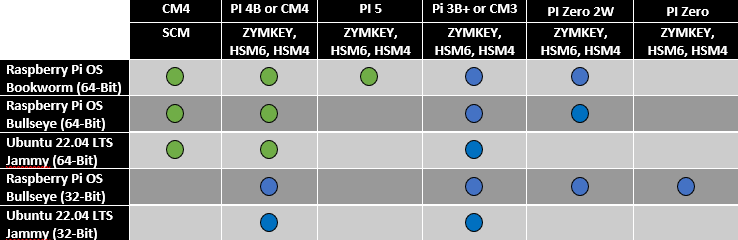
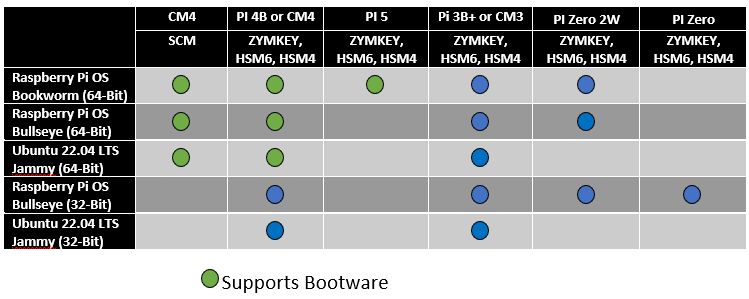
Fixed missing key from supported OS table; mv'd callouts for wake pin to troubleshooting section

diff --git a/content/getting-started/hsm4/quickstart/index.md b/content/getting-started/hsm4/quickstart/index.md
@@ -14,25 +14,6 @@ toc: true
 
 The HSM4 is a ‘snap in’ security module designed for easy integration within a secure manufacturing environment. All connections are through a single, 30 pin connector that is hidden underneath the module. It is designed specifically to work with Raspberry Pi embedded applications. A PiZero HAT (Hardware Attached on Top) adapter is available for easy integration to the standard GPIO pins of the Pi.
 
-{{< callout notice >}}
-Raspberry PI OS Bookworm updated the kernel to version 6.6.y in March 2024. The kernel no longer overrides an upstream kernel decision to force the base number of the main GPIO controller to be global GPIO 0. If the WAKE_PIN number is not set, the ZYMKEY will not bind. You will see 5 flashes per second continuously.For RPI4, RPI5, and CM4 platforms, you will need to set the WAKE_PIN in the following manner:
-
-Determine the numbering for GPIO4 by examining /sys/kernel/debug/gpio for the number associated with GPIO4, then set an environment variable in the Zymbit environment variable file:
-
-```bash
-sudo su
-wake_pin=`grep GPIO4 /sys/kernel/debug/gpio | sed -r 's/[^0-9]*([0-9]*).*/\1/'`
-echo "wake_pin=$wake_pin"   # sanity check value is set
-echo "ZK_GPIO_WAKE_PIN=$wake_pin" > /var/lib/zymbit/zkenv.conf
-systemctl restart zkifc
-```
-As of 6.6.20, the numbering is:
-RPI4=516
-RPI5=575
-CM4=516
-
-{{< /callout >}}
-
 In this Getting Started guide we describe how to install your HSM to a Raspberry Pi running Raspbian or Ubuntu. The installation process is the same for both of these Linux distributions.
 
 

diff --git a/content/getting-started/hsm6/quickstart/index.md b/content/getting-started/hsm6/quickstart/index.md
@@ -14,25 +14,6 @@ toc: true
 
 The HSM6 is a ‘snap in’ security module designed for easy integration within a secure manufacturing environment. All connections are through a single, 30 pin connector that is hidden underneath the module. It is designed specifically to work with Raspberry Pi embedded applications. A PiZero HAT (Hardware Attached on Top) adapter is available for easy integration to the standard GPIO pins of the Pi.
 
-{{< callout notice >}}
-Raspberry PI OS Bookworm updated the kernel to version 6.6.y in March 2024. The kernel no longer overrides an upstream kernel decision to force the base number of the main GPIO controller to be global GPIO 0. If the WAKE_PIN number is not set, the ZYMKEY will not bind. You will see 5 flashes per second continuously.For RPI4, RPI5, and CM4 platforms, you will need to set the WAKE_PIN in the following manner:
-
-Determine the numbering for GPIO4 by examining /sys/kernel/debug/gpio for the number associated with GPIO4, then set an environment variable in the Zymbit environment variable file:
-
-```bash
-sudo su
-wake_pin=`grep GPIO4 /sys/kernel/debug/gpio | sed -r 's/[^0-9]*([0-9]*).*/\1/'`
-echo "wake_pin=$wake_pin"   # sanity check value is set
-echo "ZK_GPIO_WAKE_PIN=$wake_pin" > /var/lib/zymbit/zkenv.conf
-systemctl restart zkifc
-```
-As of 6.6.20, the numbering is:
-RPI4=516
-RPI5=575
-CM4=516
-
-{{< /callout >}}
-
 In this Getting Started guide we describe how to install your HSM to a Raspberry Pi running Raspbian or Ubuntu. The installation process is the same for both of these Linux distributions.
 
 
